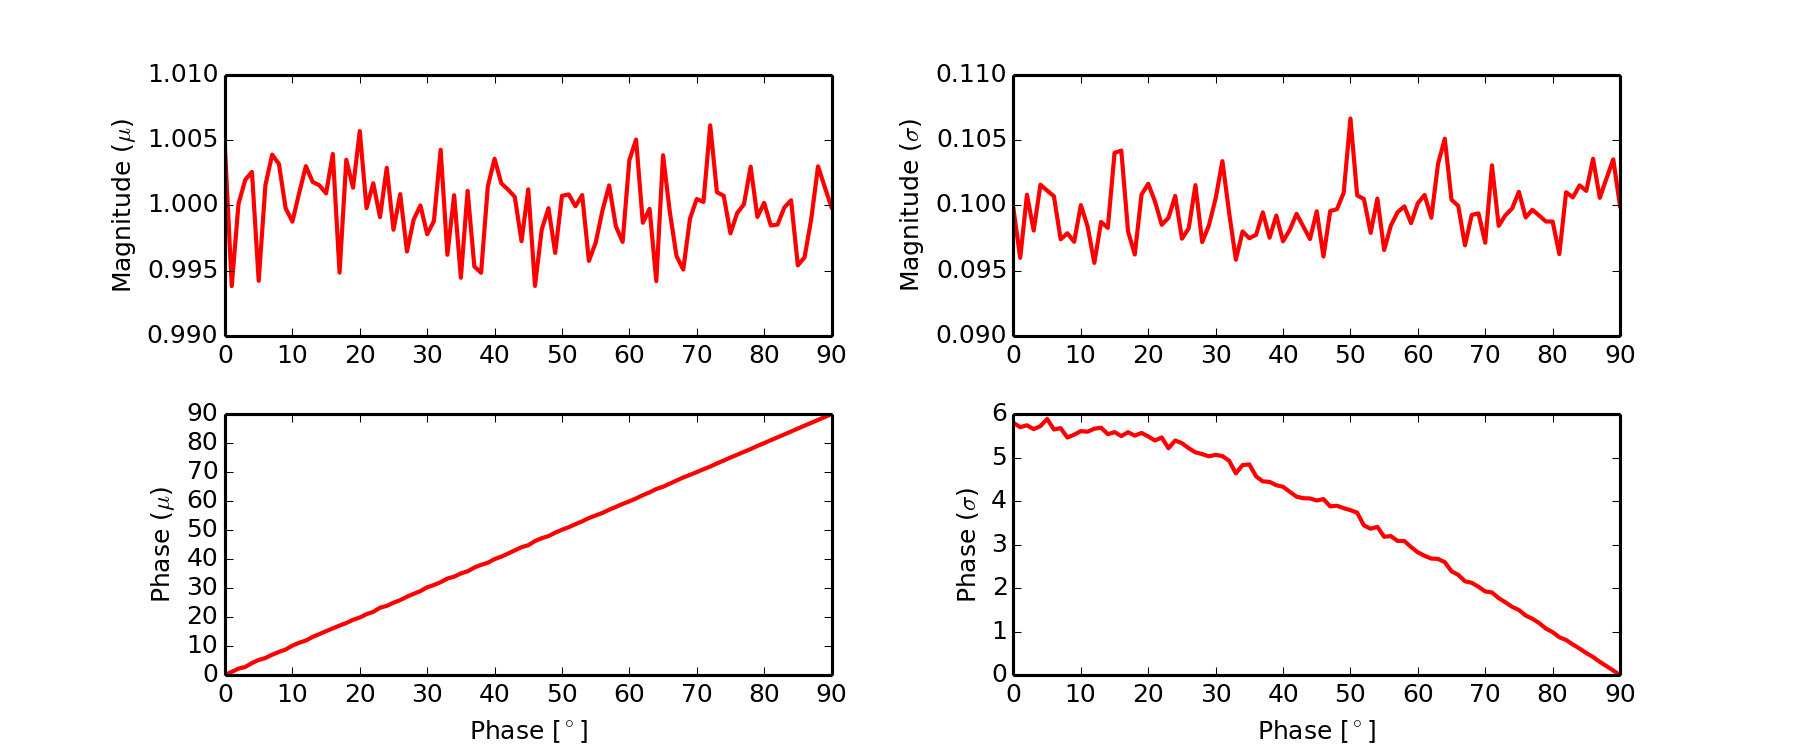
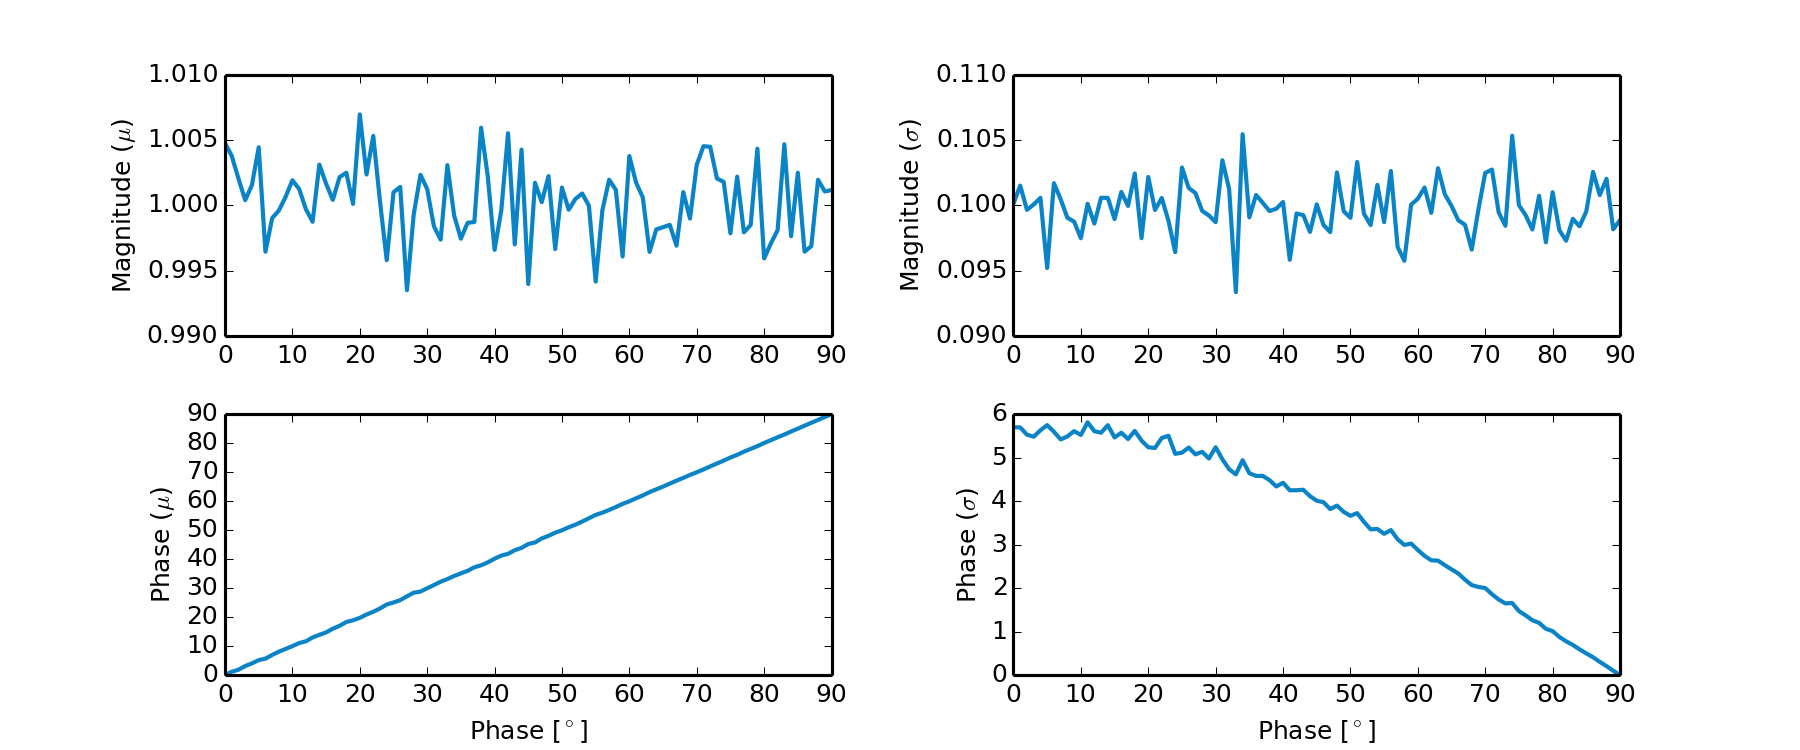
Use nice colors

diff --git a/common.py b/common.py
@@ -12,16 +12,42 @@ class PlotHelper:
     def __init__(self, print_flag):
         import matplotlib as mpl
 
-        # Store settings for later
         self.print_flag = print_flag
+
+        # Setup nice colors (use ints and convert to 0-1)
+        black = self.convert_color((0, 0, 0))
+        darkGray = self.convert_color((50, 50, 50))
+        gray = self.convert_color((128, 128, 128))
+        lightGray = self.convert_color((200, 200, 200))
+        white = self.convert_color((255, 255, 255))
+
+        lightBlue = self.convert_color((60, 180, 250))
+        blue = self.convert_color((11, 132, 199))
+        darkBlue = self.convert_color((5, 60, 120))
+
+        orange = self.convert_color((255, 102, 0))
+        lightOrange = self.convert_color((255, 160, 30))
+        darkOrange = self.convert_color((180, 50, 0))
+
+        lightGreen = self.convert_color((0, 220, 0))
+        green = self.convert_color((0, 153, 0))
+        darkGreen = self.convert_color((0, 80, 0))
+
+        lightRed = self.convert_color((255, 60, 60))
+        red = self.convert_color((190, 20, 20))
+        darkRed = self.convert_color((80, 10, 10))
 
         # Setup figure defaults
         mpl.rc('lines', linewidth=2, linestyle='-')
         mpl.rc('figure', facecolor='w')
         mpl.rc('axes', labelsize='medium', hold=True, linewidth=1.5)
         mpl.rc('figure.subplot', wspace=0.3, hspace=0.3)
-        mpl.rc('axes', color_cycle = ['r', 'k', 'c'])
+        mpl.rc('axes', color_cycle=[blue, green, orange, red, lightBlue, lightGreen, lightOrange,
+                                    lightRed, darkBlue, darkGreen, darkOrange, darkRed])
         mpl.rc('savefig', dpi=150)
+
+    def convert_color(self, color_tuple):
+        return tuple(x / 255.0 for x in color_tuple)
 
     def print_plot(self, filename):
         import matplotlib.pyplot as plt

diff --git a/oscillators/phaseDeviation.py b/oscillators/phaseDeviation.py
@@ -4,15 +4,15 @@
 # that does no work on the resonator but varies its frequency is varied.
 
 # Standard setup
-print_flag = 1
 import numpy as np
 import numpy.random as rnd
 import matplotlib.pyplot as plt
-
 import os
 base_path = os.path.join(os.path.dirname(__file__), "..")
 os.chdir(base_path)
+
 import common
+print_flag = 1
 plot_helper = common.PlotHelper(print_flag)
 
 # User parameters
